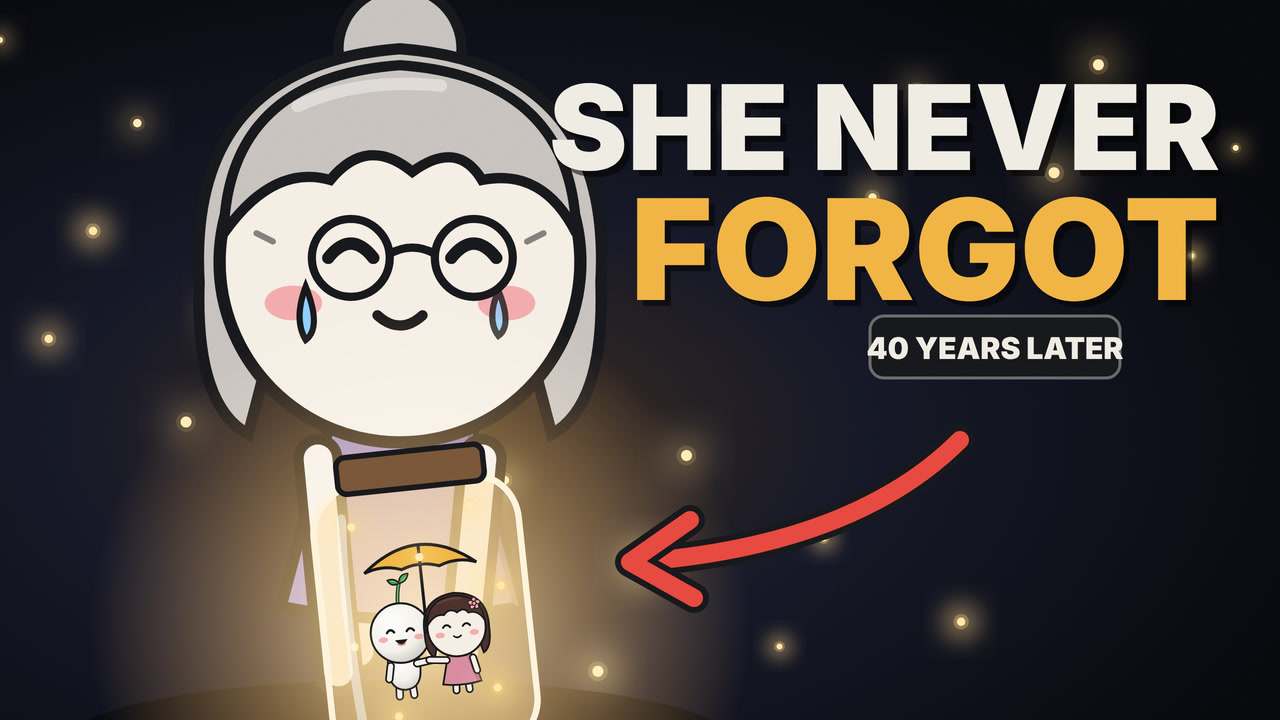
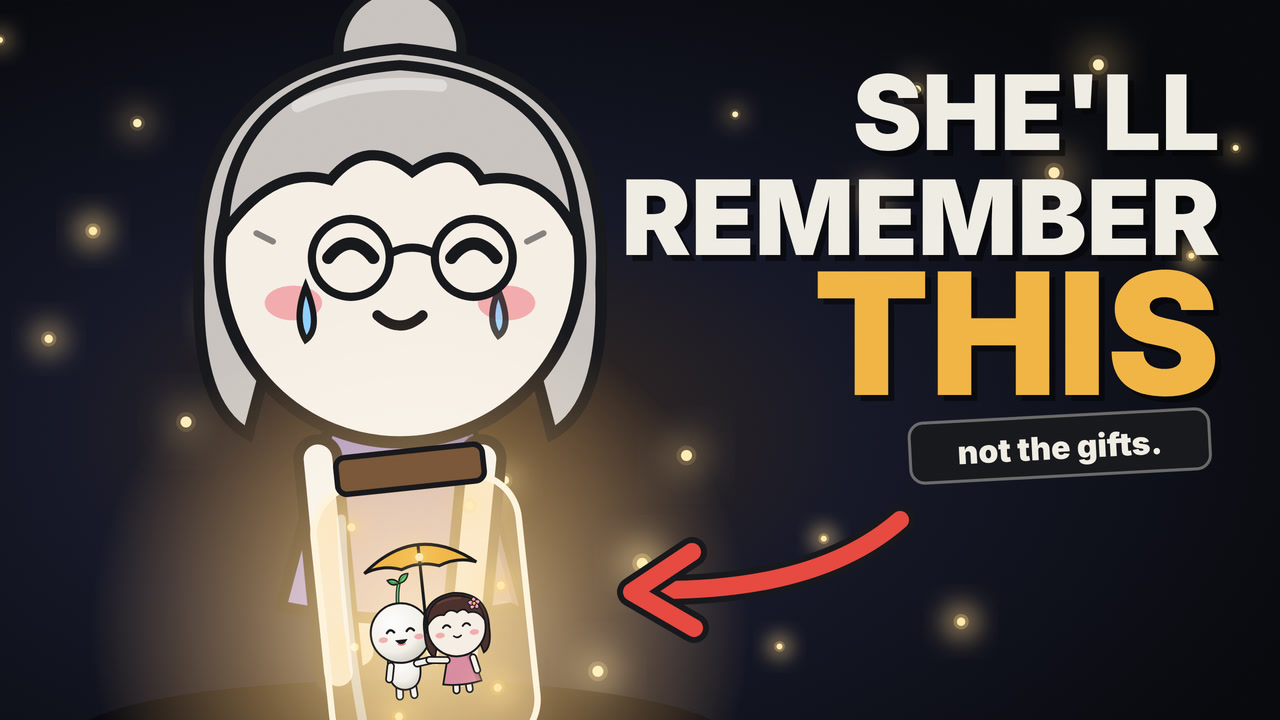
Thumbnail: relatable headline 'She'll remember THIS — not the gifts.'
Claude-Session: https://claude.ai/code/session_01Jkn9nKkGnE2sXbQewNGyZV

Changed region(s): [[0.4062, 0.0917, 0.9688, 0.8861]]

diff --git a/pilots/small/thumb.js b/pilots/small/thumb.js
@@ -23,10 +23,11 @@ function render(t) {
     <path d="M-80 -110 Q-88 0 -80 110" stroke="#fff" stroke-width="10" stroke-linecap="round" opacity="0.5"/></g>`;
   // headline
   const hl = (y, str, col, size = 118) => txt(1220 + 6, y + 6, str, size, '#000', { anchor: 'end', op: 0.55 }) + txt(1220, y, str, size, col, { anchor: 'end' });
-  s += hl(170, 'SHE NEVER', P.cream) + hl(300, 'FORGOT', P.mustard, 140);
-  s += `<g transform="translate(1100,350)"><rect x="-230" y="-34" width="250" height="62" rx="14" fill="#16161a" stroke="#f1ede4" stroke-opacity="0.4" stroke-width="3"/>${txt(-105, 9, '40 YEARS LATER', 30, P.cream, { weight: 900 })}</g>`;
+  s += hl(150, 'SHE\'LL', P.cream, 104) + hl(255, 'REMEMBER', P.cream, 104) + hl(395, 'THIS', P.mustard, 170);
+  s += `<g transform="translate(1060,450) rotate(-3)"><rect x="-150" y="-34" width="300" height="60" rx="14" fill="#16161a" stroke="#f1ede4" stroke-opacity="0.4" stroke-width="3"/>
+    ${txt(0, 9, 'not the gifts.', 32, P.cream, { weight: 900 })}</g>`;
   // red arrow pointing at the jar
-  s += `<path d="M960 440 Q860 540 660 560" stroke="#16161a" stroke-width="30" fill="none" stroke-linecap="round"/><path d="M960 440 Q860 540 660 560" stroke="${P.red}" stroke-width="18" fill="none" stroke-linecap="round"/>
-    <path d="M690 520 L630 562 L694 598" stroke="#16161a" stroke-width="30" fill="none" stroke-linecap="round" stroke-linejoin="round"/><path d="M690 520 L630 562 L694 598" stroke="${P.red}" stroke-width="18" fill="none" stroke-linecap="round" stroke-linejoin="round"/>`;
+  s += `<path d="M900 520 Q820 590 660 590" stroke="#16161a" stroke-width="30" fill="none" stroke-linecap="round"/><path d="M900 520 Q820 590 660 590" stroke="${P.red}" stroke-width="18" fill="none" stroke-linecap="round"/>
+    <path d="M692 552 L632 592 L694 628" stroke="#16161a" stroke-width="30" fill="none" stroke-linecap="round" stroke-linejoin="round"/><path d="M692 552 L632 592 L694 628" stroke="${P.red}" stroke-width="18" fill="none" stroke-linecap="round" stroke-linejoin="round"/>`;
   return `<svg xmlns="http://www.w3.org/2000/svg" width="${W}" height="${H}" viewBox="0 0 ${W} ${H}">${styleDefs(0)}${s}${grain(0.035)}</svg>`;
 }
